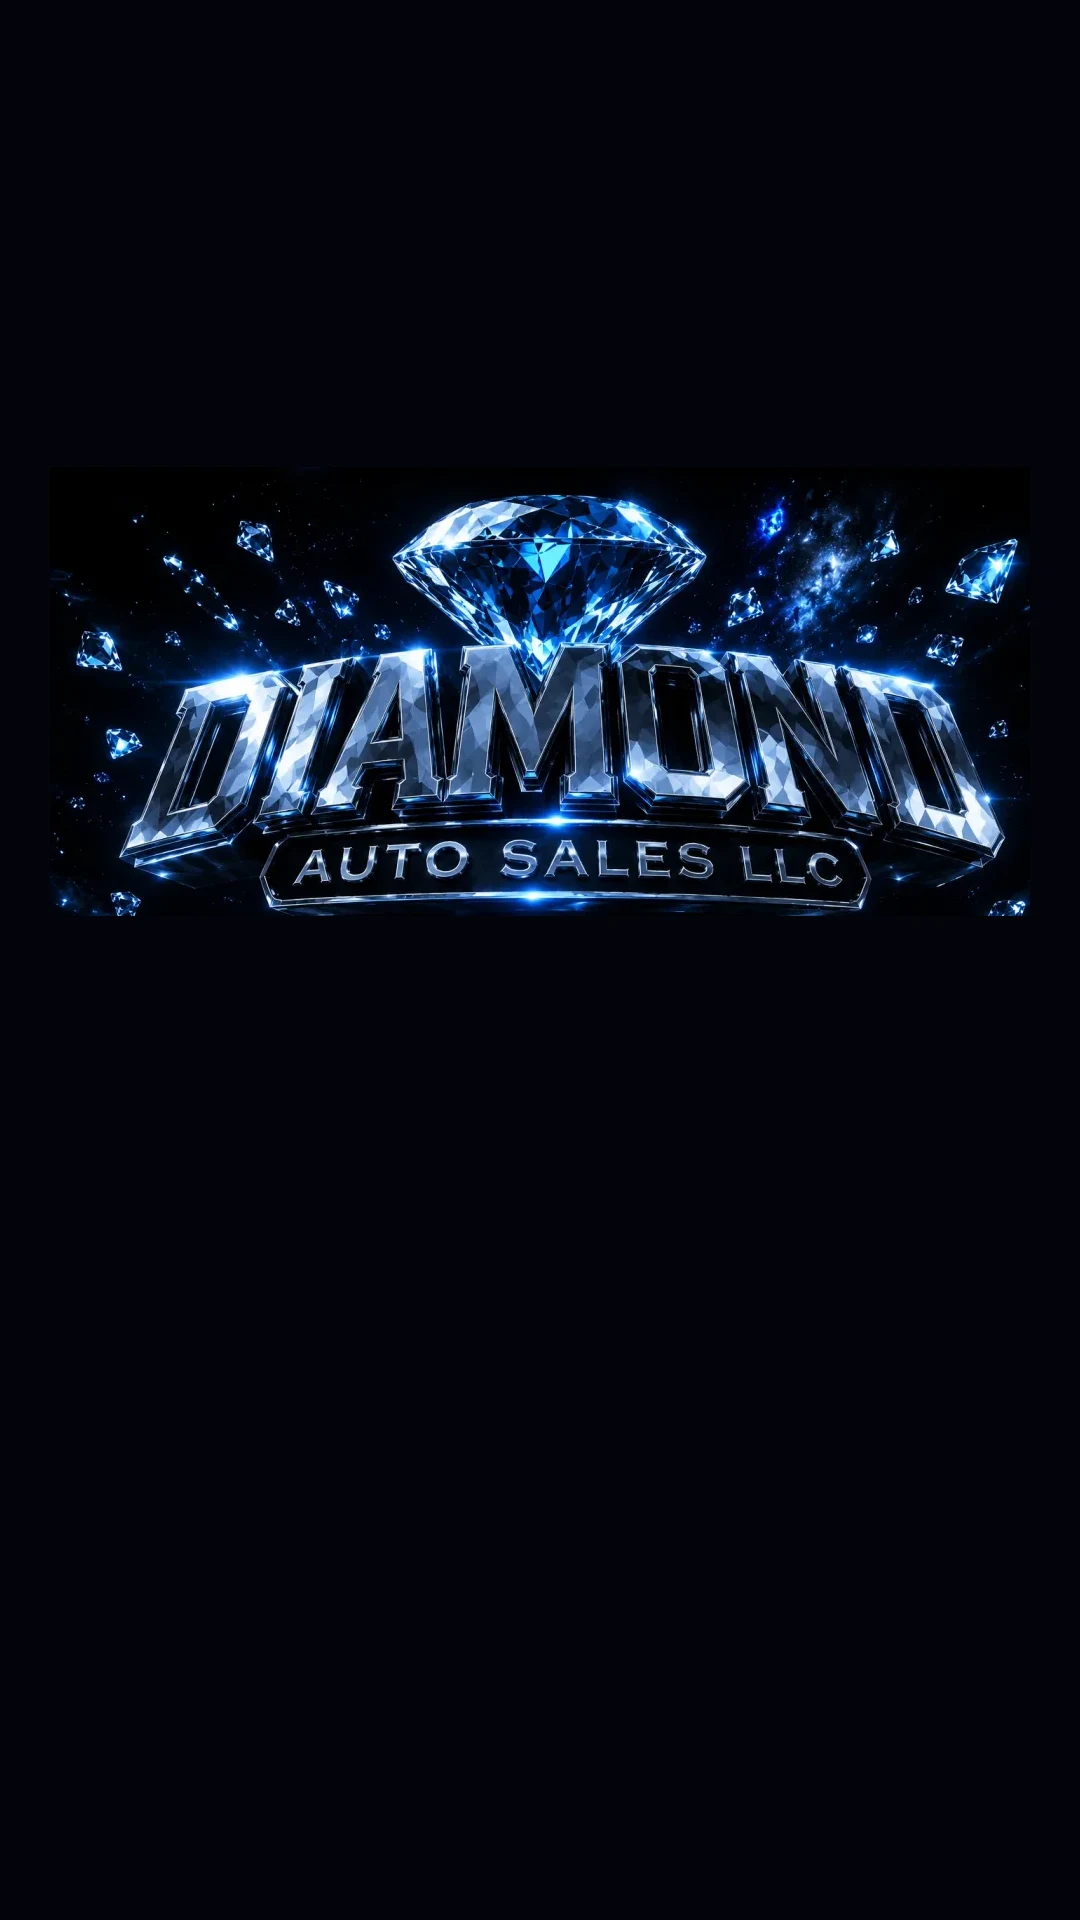
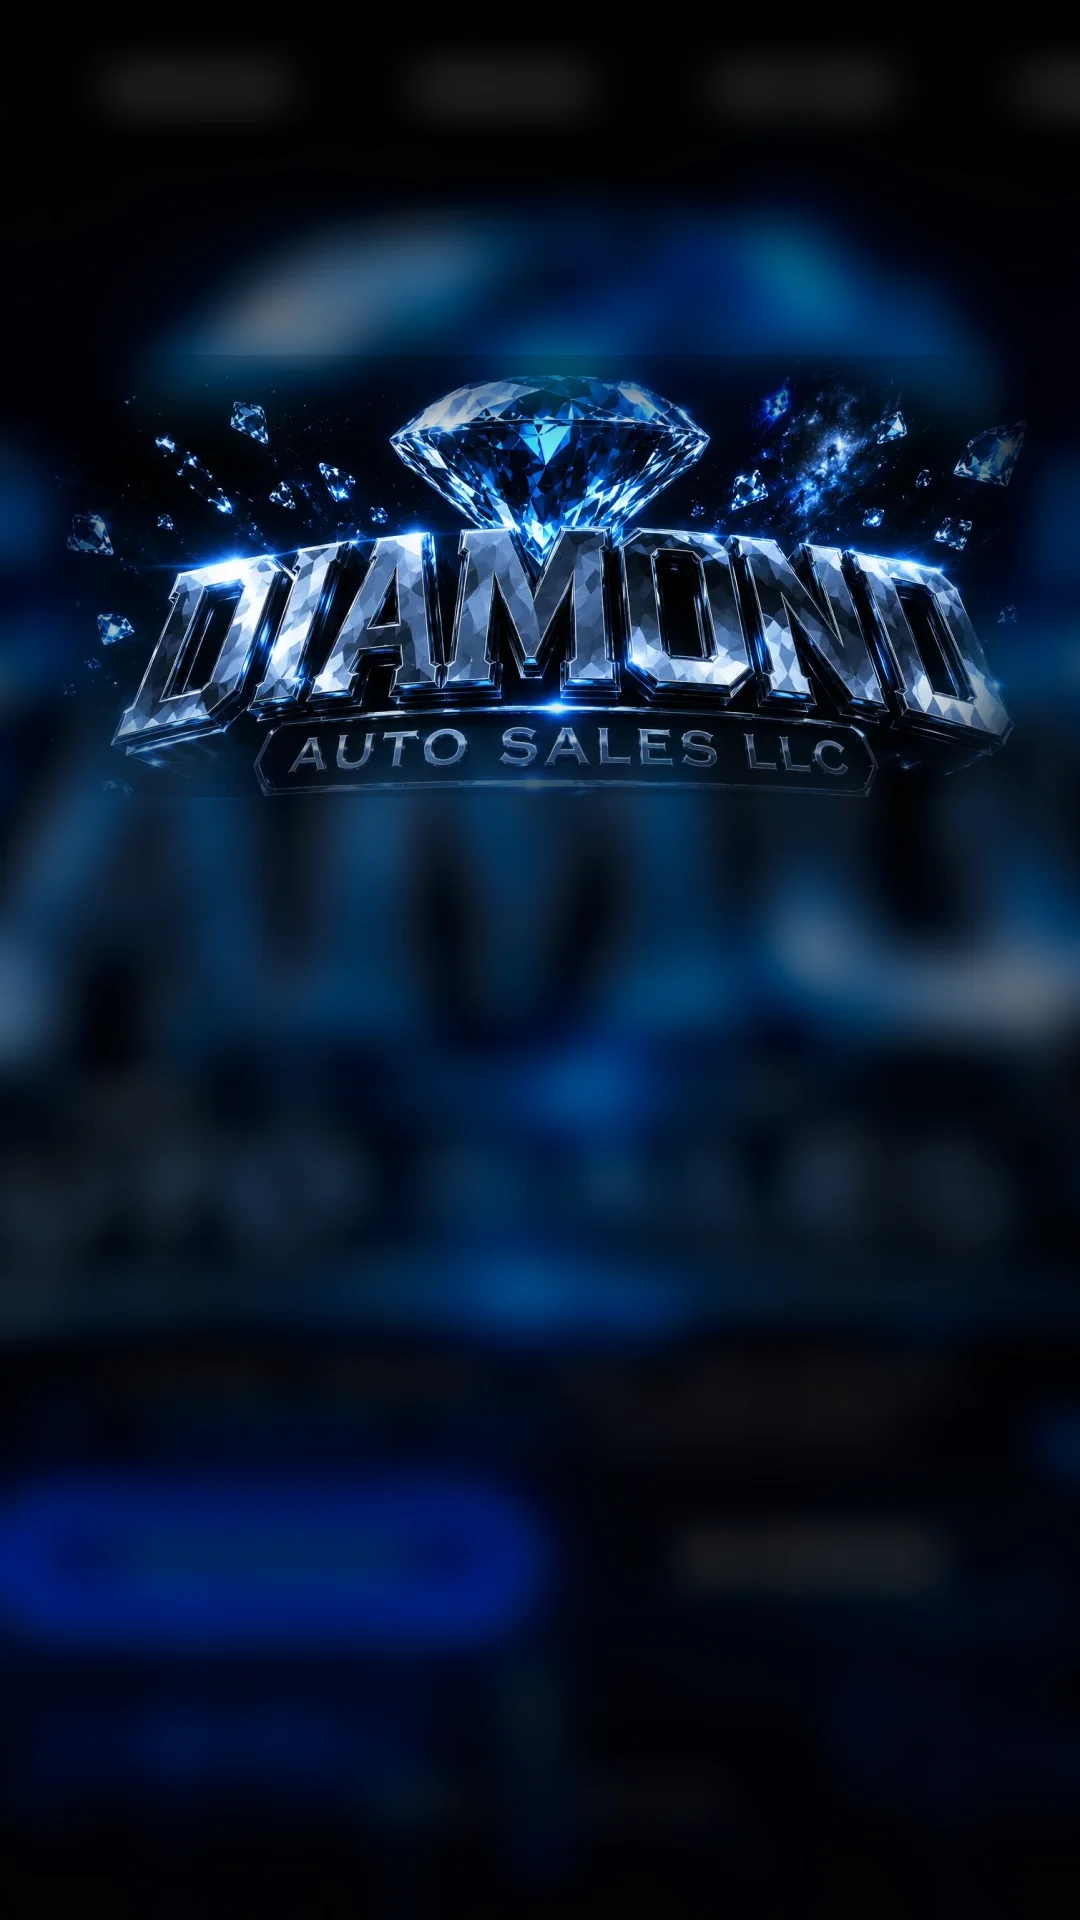
Fix mobile hero seam: full-bleed composition + mask fade
The mobile asset pasted the logo strip onto a black canvas, leaving a
visible rectangle. Rebuild it as a true full-bleed 9:16: a blurred,
darkened cosmic field fills the entire frame, with the sharp DIAMOND logo
feathered (soft alpha) on top so it melts in — no internal edges. Serve it
object-cover and fade the top/bottom into black via a mask-image gradient
(no hard edges under the header or above the CTAs). Tune parallax depths
(background subtle, shards more).

Claude-Session: https://claude.ai/code/session_0183v9Wa41FprfpLiLFAJjKU

diff --git a/src/components/site/BrandHero.tsx b/src/components/site/BrandHero.tsx
@@ -54,8 +54,9 @@ export default function BrandHero() {
       const ny = e.clientY / window.innerHeight - 0.5;
       cancelAnimationFrame(raf);
       raf = requestAnimationFrame(() => {
-        if (bgRef.current) bgRef.current.style.transform = `translate(${nx * -10}px, ${ny * -10}px)`;
-        if (fxRef.current) fxRef.current.style.transform = `translate(${nx * -28}px, ${ny * -28}px)`;
+        // background moves least, FX (shards/sparkles) moves most → layered depth
+        if (bgRef.current) bgRef.current.style.transform = `translate(${nx * -6}px, ${ny * -6}px)`;
+        if (fxRef.current) fxRef.current.style.transform = `translate(${nx * -16}px, ${ny * -16}px)`;
       });
     };
     window.addEventListener("pointermove", onMove, { passive: true });
@@ -80,7 +81,7 @@ export default function BrandHero() {
               alt="Diamond Auto Sales"
               fetchPriority="high"
               decoding="async"
-              className="absolute inset-0 h-full w-full object-contain object-top sm:object-cover sm:object-center"
+              className="hero-art-mask absolute inset-0 h-full w-full object-cover object-center"
             />
           </picture>
         </div>

diff --git a/src/app/globals.css b/src/app/globals.css
@@ -794,6 +794,15 @@ textarea:focus-visible,
   min-height: 100dvh;
 }
 
+/* mobile only: fade the hero art into the black background top + bottom so there
+   are no hard edges around the logo (header blend above, CTA blend below) */
+@media (max-width: 640px) {
+  .hero-art-mask {
+    -webkit-mask-image: linear-gradient(to bottom, transparent 0%, #000 12%, #000 80%, transparent 100%);
+    mask-image: linear-gradient(to bottom, transparent 0%, #000 12%, #000 80%, transparent 100%);
+  }
+}
+
 /* keep the heaviest motion off phones; desktop uses pointer parallax instead of auto-drift */
 @media (max-width: 640px) {
   .brand-bg-zoom { animation: none; }
